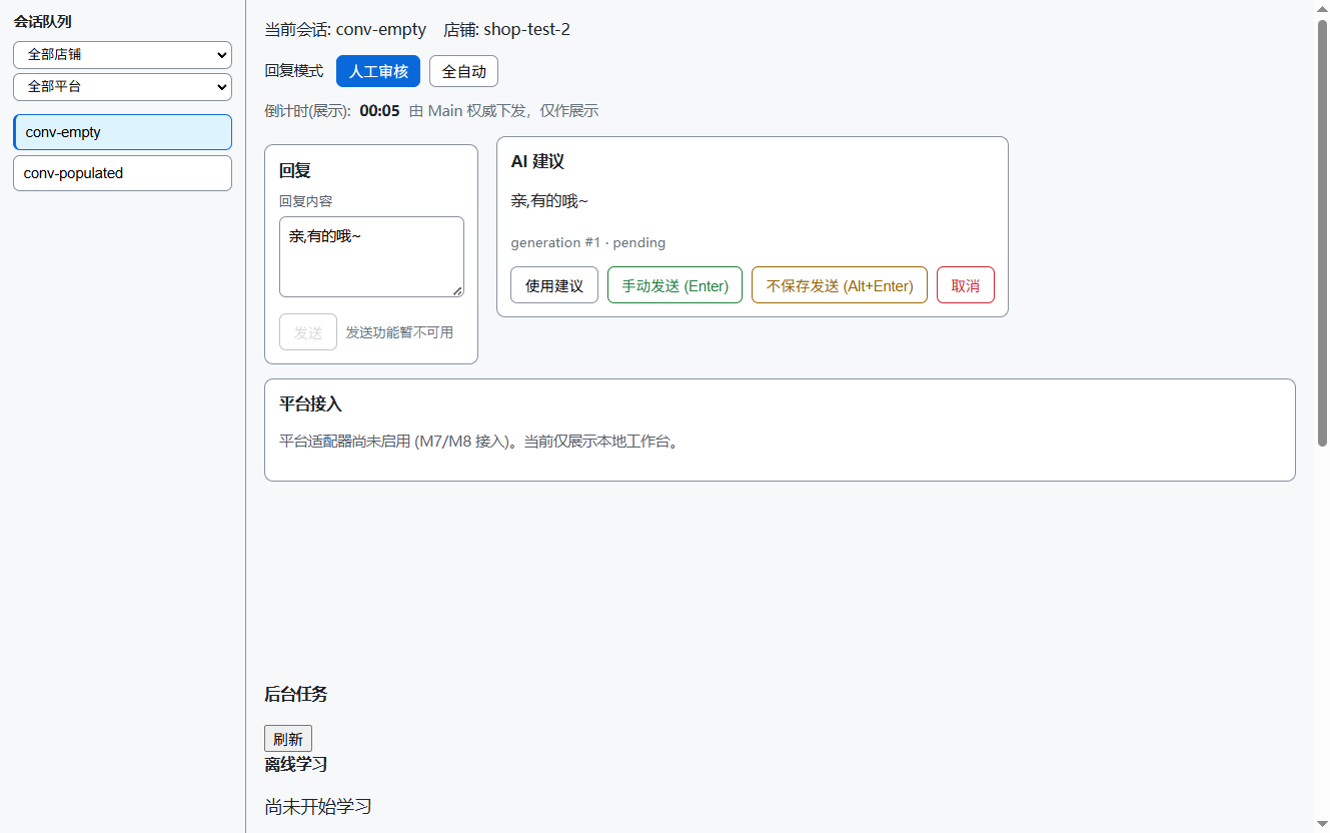
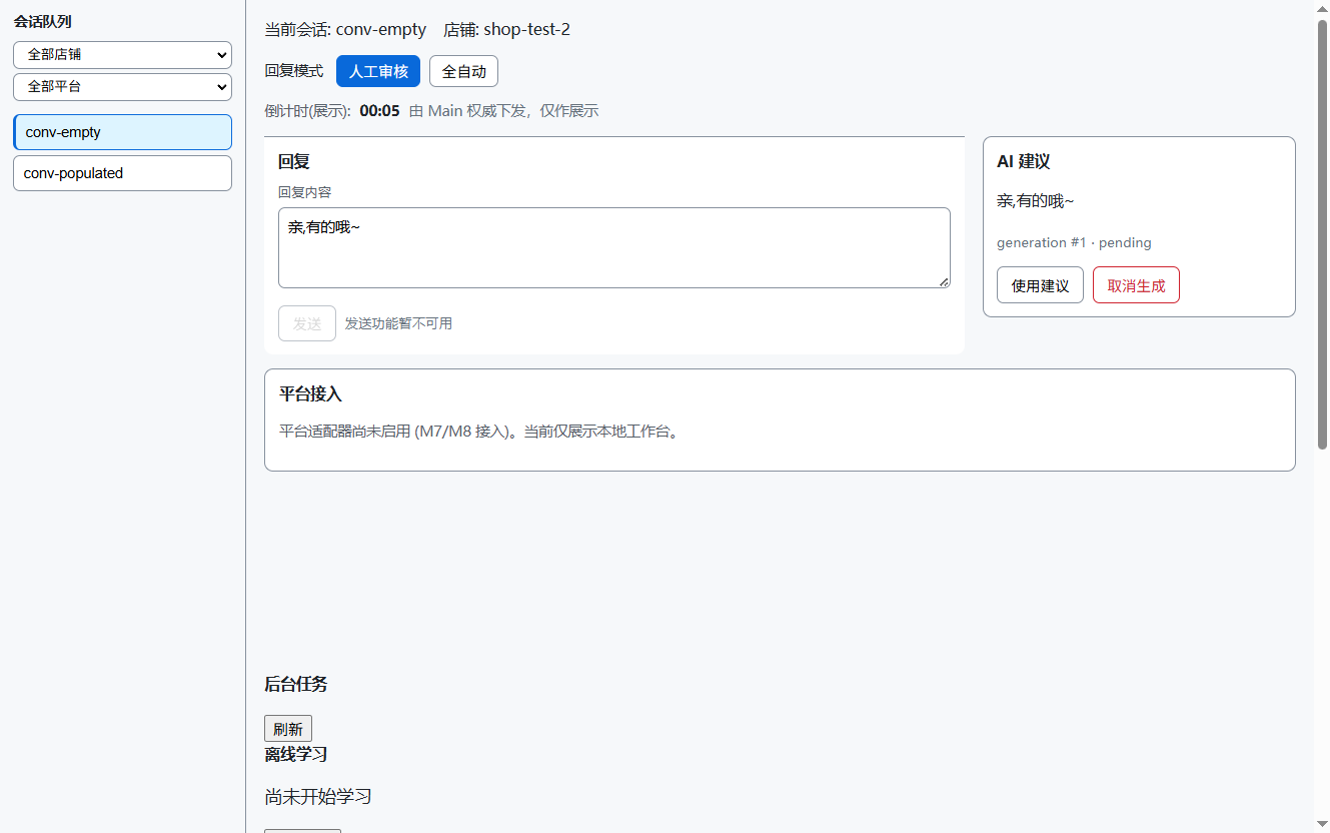
SHEEP-064 REPAIR: Timeline/Composer topology + legacy send-path convergence (new I-30 COMPOSER_IS_THE_SINGLE_AGENT_REPLY_SUBMISSION_SURFACE) — Message Timeline restored as Conversation Main primary content; Composer is the connected reply surface BELOW the Timeline (conversation-host column; .compos

diff --git a/apps/desktop/tests/renderer-suggestion-actions.test.ts b/apps/desktop/tests/renderer-suggestion-actions.test.ts
@@ -1,25 +1,30 @@
 import { test } from "node:test";
 import assert from "node:assert/strict";
-import { resolveSuggestionKey } from "../dist/renderer/state/view-model.js";
+import { WorkbenchStore, type WorkbenchApiLike } from "../dist/renderer/state/workbench-store.js";
 
-test("Enter maps to manual_send only in suggestion context", () => {
-  assert.equal(resolveSuggestionKey({ key: "Enter", altKey: false }), "manual_send");
-  assert.equal(resolveSuggestionKey({ key: "Enter", altKey: true }), "no_save_send");
-});
+// SHEEP-064 REPAIR (I-30): the Composer is the SINGLE agent reply submission surface.
+// The AI suggestion panel provides only explicit apply -> Composer draft (DP-106) and
+// AI generation cancel; no legacy 手动发送 / 不保存发送 agent-send path is reachable.
 
-test("other keys never trigger sends", () => {
-  for (const key of ["a", "ArrowDown", "Tab", "Escape", "Shift", " "]) {
-    assert.equal(resolveSuggestionKey({ key, altKey: false }), null);
-    assert.equal(resolveSuggestionKey({ key, altKey: true }), null);
-  }
-});
+function vm() {
+  return {
+    revision: 1,
+    shop_summaries: [{ shop_id: "s1", name: "n", type: "pdd", enabled: true }],
+    selected_shop_id: "s1",
+    conversation: { conversation_id: "c1", shop_id: "s1", state: "suggestion_pending" },
+    suggestion: { reply: "AI 建议内容", generation: 1, status: "pending" },
+    mode: "human_review",
+    countdown: null,
+    worker_status: { status: "ready" },
+    platform_capability: "none",
+  };
+}
 
-test("renderer suggestion actions map only to typed IPC (store adapter)", async () => {
-  const { WorkbenchStore } = await import("../dist/renderer/state/workbench-store.js");
+test("I-30: suggestion panel explicit apply routes ONLY to the composer draft (no legacy send)", async () => {
   const calls: string[] = [];
   const api = {
-    bootstrap: async () => ({ ok: true, data: { revision: 1, worker_status: { status: "ready" }, shops: [], view_model: { revision: 1, shop_summaries: [{ shop_id: "s1", name: "n", type: "pdd", enabled: true }], selected_shop_id: "s1", conversation: { conversation_id: "c1", shop_id: "s1", state: "suggestion_pending" }, suggestion: { reply: "r", generation: 1, status: "pending" }, mode: "human_review", countdown: null, worker_status: { status: "ready" }, platform_capability: "none" } } }),
-    getSnapshot: async () => ({ ok: true, data: { revision: 2, shop_summaries: [{ shop_id: "s1", name: "n", type: "pdd", enabled: true }], selected_shop_id: "s1", conversation: { conversation_id: "c1", shop_id: "s1", state: "suggestion_pending" }, suggestion: { reply: "r", generation: 1, status: "pending" }, mode: "human_review", countdown: null, worker_status: { status: "ready" }, platform_capability: "none" } }),
+    bootstrap: async () => ({ ok: true, data: { revision: 1, worker_status: { status: "ready" }, shops: [], view_model: vm() } }),
+    getSnapshot: async () => ({ ok: true, data: vm() }),
     setMode: async () => { calls.push("setMode"); return { ok: true, data: { ok: true } }; },
     manualSend: async () => { calls.push("manualSend"); return { ok: true, data: { ok: true } }; },
     noSaveSend: async () => { calls.push("noSaveSend"); return { ok: true, data: { ok: true } }; },
@@ -36,8 +41,11 @@ test("renderer suggestion actions map only to typed IPC (store adapter)", async 
   } as unknown as WorkbenchApiLike;
   const store = new WorkbenchStore(api);
   await store.boot();
-  await store.manualSend();
-  await store.noSaveSend();
+  store.activateConversation("c1");
+  store.applySuggestion();
+  assert.equal(store.getState().composerDrafts["c1"], "AI 建议内容", "apply fills the composer draft");
+  assert.deepEqual(calls, [], "apply must NOT call any legacy send / cancel IPC");
+  // generation cancel is a distinct action (cancels AI generation, not a send)
   await store.cancel();
-  assert.deepEqual(calls, ["manualSend", "noSaveSend", "cancel"]);
+  assert.deepEqual(calls, ["cancel"], "generation cancel is separate from any send");
 });

diff --git a/apps/desktop/src/renderer/components/suggestion-panel.ts b/apps/desktop/src/renderer/components/suggestion-panel.ts
@@ -1,10 +1,12 @@
-// M6 suggestion panel (clean-room).
-// Actions map ONLY to typed IPC commands (manual_send / no_save_send / cancel).
-// Enter -> manual send, Alt+Enter -> no-save send, but ONLY within this panel
-// and ONLY when a pending suggestion is visible (UI context). The renderer
-// never decides business eligibility; Main remains the correctness authority.
+// SHEEP-064 REPAIR (I-30): the Composer is the SINGLE agent reply submission
+// surface. The AI suggestion panel provides only:
+//   - 使用建议: EXPLICIT, NON-DESTRUCTIVE apply of the suggestion into the Composer
+//     draft (DP-106) — never async-auto-applies; non-empty drafts are never silently
+//     replaced;
+//   - 取消生成: AI generation cancel (semantically separate from send cancel).
+// There are NO direct agent-send actions here (I-30): the only agent reply path is
+// apply -> Composer. Old direct-send actions are not reachable as an agent reply path.
 import type { UiState } from "../state/view-model.js";
-import { resolveSuggestionKey } from "../state/view-model.js";
 import type { WorkbenchActions } from "./actions.js";
 import { button, clear, el } from "./dom.js";
 import { emptyState } from "./states/empty.js";
@@ -27,38 +29,17 @@ export function renderSuggestionPanel(root: HTMLElement, state: UiState, actions
   body.appendChild(el("span", "suggestion-meta", `generation #${suggestion.generation} · ${suggestion.status}`));
   panel.appendChild(body);
 
-  const sendBusy = state.pendingCommand === "manual_send" || state.pendingCommand === "no_save_send";
   const cancelBusy = state.pendingCommand === "cancel";
   const modeBusy = state.pendingCommand === "set_mode";
 
   const controls = el("div", "suggestion-controls");
-  // SHEEP-064 (DP-106): EXPLICIT, NON-DESTRUCTIVE apply of the AI suggestion into the
-  // composer draft (never async-auto-applies; non-empty drafts are never silently replaced).
+  // I-30: the ONLY agent reply path is 使用建议 -> Composer (explicit, non-destructive).
   controls.appendChild(button("btn btn-apply-suggestion", "使用建议", () => actions.onApplySuggestion()));
-  const manual = button("btn btn-manual", "手动发送 (Enter)", () => actions.onManualSend());
-  manual.disabled = sendBusy || modeBusy;
-  const noSave = button("btn btn-no-save", "不保存发送 (Alt+Enter)", () => actions.onNoSaveSend());
-  noSave.disabled = sendBusy || modeBusy;
-  const cancelBtn = button("btn btn-cancel", "取消", () => actions.onCancel());
+  // 取消生成 = AI generation cancel (distinct from any send cancellation; no send here).
+  const cancelBtn = button("btn btn-cancel", "取消生成", () => actions.onCancel());
   cancelBtn.disabled = cancelBusy || modeBusy;
-  controls.appendChild(manual);
-  controls.appendChild(noSave);
   controls.appendChild(cancelBtn);
   panel.appendChild(controls);
-
-  // Keyboard: only active in the suggestion context, never a global hijack.
-  panel.addEventListener("keydown", (event) => {
-    if (sendBusy || modeBusy) return;
-    const action = resolveSuggestionKey({ key: event.key, altKey: event.altKey });
-    if (action === "manual_send") {
-      event.preventDefault();
-      actions.onManualSend();
-    } else if (action === "no_save_send") {
-      event.preventDefault();
-      actions.onNoSaveSend();
-    }
-  });
-  panel.tabIndex = 0;
   root.appendChild(panel);
 }
 

diff --git a/apps/desktop/tests/renderer-keyboard-shortcuts.test.ts b/apps/desktop/tests/renderer-keyboard-shortcuts.test.ts
@@ -1,6 +1,5 @@
 import { test } from "node:test";
 import assert from "node:assert/strict";
-import { resolveSuggestionKey } from "../dist/renderer/state/view-model.js";
 import { WorkbenchStore, type WorkbenchApiLike } from "../dist/renderer/state/workbench-store.js";
 import { readFileSync } from "node:fs";
 import { join, dirname } from "node:path";
@@ -39,17 +38,15 @@ function makeApi(overrides: Partial<WorkbenchApiLike> = {}): WorkbenchApiLike {
   };
 }
 
-test("Enter/Alt+Enter map to suggestion intents only", () => {
-  assert.equal(resolveSuggestionKey({ key: "Enter", altKey: false }), "manual_send");
-  assert.equal(resolveSuggestionKey({ key: "Enter", altKey: true }), "no_save_send");
-  assert.equal(resolveSuggestionKey({ key: "Tab", altKey: false }), null);
-});
-
-test("keyboard handler is attached to the suggestion panel, never globally", () => {
+test("I-30: no legacy agent-send keyboard mapping exists in the suggestion panel (Composer is the single reply surface)", () => {
   const src = readFileSync(join(dirname(fileURLToPath(import.meta.url)), "..", "src", "renderer", "components", "suggestion-panel.ts"), "utf-8");
-  assert.match(src, /panel\.addEventListener\("keydown"/);
-  assert.doesNotMatch(src, /document\.addEventListener\("keydown"/);
-  assert.doesNotMatch(src, /window\.addEventListener\("keydown"/);
+  // legacy send path is gone: no manual_send / no_save_send actions, no keydown->send mapping
+  for (const t of ["手动发送", "不保存发送", "manual_send", "no_save_send", "onManualSend", "onNoSaveSend", "addEventListener(\"keydown\")"]) {
+    assert.ok(!src.includes(t), "suggestion-panel must not contain legacy send path: " + t);
+  }
+  // the ONLY agent reply path is apply-suggestion -> composer
+  assert.ok(src.includes("使用建议"), "explicit apply to composer remains");
+  assert.ok(src.includes("取消生成"), "generation cancel remains, semantically separate from send");
 });
 
 test("duplicate keypress UX is guarded while the same command is pending", async () => {

diff --git a/apps/desktop/tests/renderer-composer.test.ts b/apps/desktop/tests/renderer-composer.test.ts
@@ -145,6 +145,27 @@ test("I-29: IME composition must never trigger composer submit; Shift+Enter is n
   assert.equal(shouldSubmitComposerOnEnter({ isComposing: false, shiftKey: false }), true, "plain Enter submits");
 });
 
+test("I-30: Composer is the single agent reply surface — Enter/Alt+Enter must NOT reach legacy orchestrator.manual_send / other old send paths", async () => {
+  // source scan: composer + suggestion panel contain no legacy send wiring
+  for (const f of ["composer.ts", "suggestion-panel.ts"]) {
+    const src = readFileSync(join(R, f), "utf-8");
+    for (const t of ["manualSend", "noSaveSend", "onManualSend", "onNoSaveSend", "orchestrator.manual_send", "manual_send"]) {
+      assert.ok(!src.includes(t), f + " must not reference legacy send path: " + t);
+    }
+  }
+  // behavior: submitComposer (the composer's Enter path) must never call legacy send IPC
+  const calls: string[] = [];
+  const api = makeApi();
+  api.manualSend = async () => { calls.push("manualSend"); return { ok: true, data: { ok: true } }; };
+  api.noSaveSend = async () => { calls.push("noSaveSend"); return { ok: true, data: { ok: true } }; };
+  const store = new WorkbenchStore(api);
+  store.activateConversation("c1");
+  store.updateComposerDraft("回复内容");
+  store.submitComposer(); // composer Enter/Alt+Enter submit path
+  assert.deepEqual(calls, [], "composer submit must not call legacy manual_send / no_save_send");
+  assert.equal(store.getState().composerNote, "发送功能暂不可用", "honest unavailable (SHEEP-066 owns execution)");
+});
+
 test("composer uses native textarea/button + accessible label; no innerHTML; unavailable state honest", () => {
   const src = readFileSync(join(R, "composer.ts"), "utf-8");
   assert.ok(src.includes("el(\"textarea\""), "native textarea");

diff --git a/apps/desktop/src/renderer/styles.css b/apps/desktop/src/renderer/styles.css
@@ -152,7 +152,8 @@ body { font-family: var(--fs-font-sans); color: var(--fs-color-text); background
 
 
 /* ===== SHEEP-064 Composer (manual reply input below the Timeline) ===== */
-.composer { background: var(--fs-color-bg-surface); border: var(--fs-border-width) var(--fs-border-style) var(--fs-color-border); border-radius: var(--fs-radius-md); padding: var(--fs-space-3); margin-top: var(--fs-space-2); }
+.conversation-host { display: flex; flex-direction: column; min-width: 360px; flex: 1 1 520px; }
+.composer { background: var(--fs-color-bg-surface); border: 0; border-top: var(--fs-border-width) var(--fs-border-style) var(--fs-color-border); border-radius: 0 0 var(--fs-radius-md) var(--fs-radius-md); padding: var(--fs-space-3); }
 .composer-label { display: block; font-size: var(--fs-font-size-sm); color: var(--fs-color-text-secondary); margin-bottom: var(--fs-space-1); }
 .composer-input { width: 100%; min-height: 72px; padding: var(--fs-space-2); border: var(--fs-border-width) var(--fs-border-style) var(--fs-color-border); border-radius: var(--fs-radius-sm); font-size: var(--fs-font-size-md); font-family: inherit; resize: vertical; }
 .composer-input:focus-visible { outline: 2px solid var(--fs-color-primary); outline-offset: 1px; }

diff --git a/apps/desktop/src/renderer/state/view-model.ts b/apps/desktop/src/renderer/state/view-model.ts
@@ -240,17 +240,6 @@ export function clearPendingCommand(state: UiState): UiState {
 }
 
 /**
- * Pure keyboard mapping for suggestion actions (renderer UI convention).
- * Enter => manual send; Alt+Enter => no-save send. Any other key => null.
- * This maps a key event to a UI intent only; Main remains the authority and
- * still validates the request.
- */
-export function resolveSuggestionKey(e: { key: string; altKey: boolean }): "manual_send" | "no_save_send" | null {
-  if (e.key !== "Enter") return null;
-  return e.altKey ? "no_save_send" : "manual_send";
-}
-
-/**
  * Pure stale-event predicate (renderer side, non-authoritative).
  * Main's monotonic projection revision is the source of truth.
  */

diff --git a/docs/fast-sheep-composer.md b/docs/fast-sheep-composer.md
@@ -35,7 +35,16 @@
 - 回归：desktop 294/294、workspace typecheck+test 全 PASS、m6 Electron smoke PASS（external_network_calls=0）、check:boundary + secret scan PASS。
 - **Visual evidence**（真实路径）：`sheep-064-composer-empty.png`、`-draft.png`、`-apply.png`（显式使用建议 → 草稿）、`-switch.png`（c1→c2→c1 草稿保留）、`-unavailable.png`（有草稿但 Send 因 pipeline 未接入而 disabled + cue）。
 
-## 4. 边界（未实现/未改动）
+## 4. REPAIR（Owner 2026-08-28）：Timeline/Composer topology + legacy send-path convergence（I-30）
+
+- **I-30** `COMPOSER_IS_THE_SINGLE_AGENT_REPLY_SUBMISSION_SURFACE`：Manual/AI-assisted reply draft 最终统一进入 Composer；**不得有绕过 Composer draft 的 legacy agent-send path**。
+- **Topology 修复**：Message Timeline 恢复为 Conversation Main 主内容；Composer 作为 Timeline **下方连接的 reply surface**（`conversation-host` 纵向堆叠，`.composer` 改为 timeline 下沿 reply bar：仅顶部分隔、非独立小 card）。
+- **Legacy send path 移除**：AI suggestion panel 移除 `手动发送 (Enter)` / `不保存发送 (Alt+Enter)` 及 Enter/Alt+Enter→send 的 keydown 映射（`resolveSuggestionKey` 删除）；Agent reply path 仅 `使用建议 → Composer`；`取消` 改标 `取消生成`（AI generation cancel，与发送取消语义分离）。
+- **负测试**：Composer focused 时 Enter/Alt+Enter 不得调用 legacy `orchestrator.manual_send` / 其它旧 send path（composer.ts / suggestion-panel.ts 源扫描 + store.submitComposer 不触发 manualSend/noSaveSend）；IME/Shift+Enter 既有约束继续 PASS（I-29）。
+- Composer Send 继续 native disabled + unavailable cue（未提前实现 SHEEP-066）。
+- **Visual evidence（重捕获，两张）**：`sheep-064-composer-apply.png`（populated Timeline + Composer + AI apply path，draft=亲,有的哦~）、`sheep-064-composer-empty.png`（empty Timeline + Composer）；legacy send path 不触发的自动化证据见测试。
+
+## 5. 边界（未实现/未改动）
 
 - 未实现真正 send IPC / message ingestion / platform delivery / Outbox / sync（SHEEP-066）；Attachments（SHEEP-065）；draft persistence（SHEEP-075）；Unread/Priority/Risk；Customer/Product/Order（M4.3）；schema（v9 不变）；AI 自动发送。
 - 未用 `orchestrator.manual_send` 作为 Composer 临时替代（Option B 禁止）。
